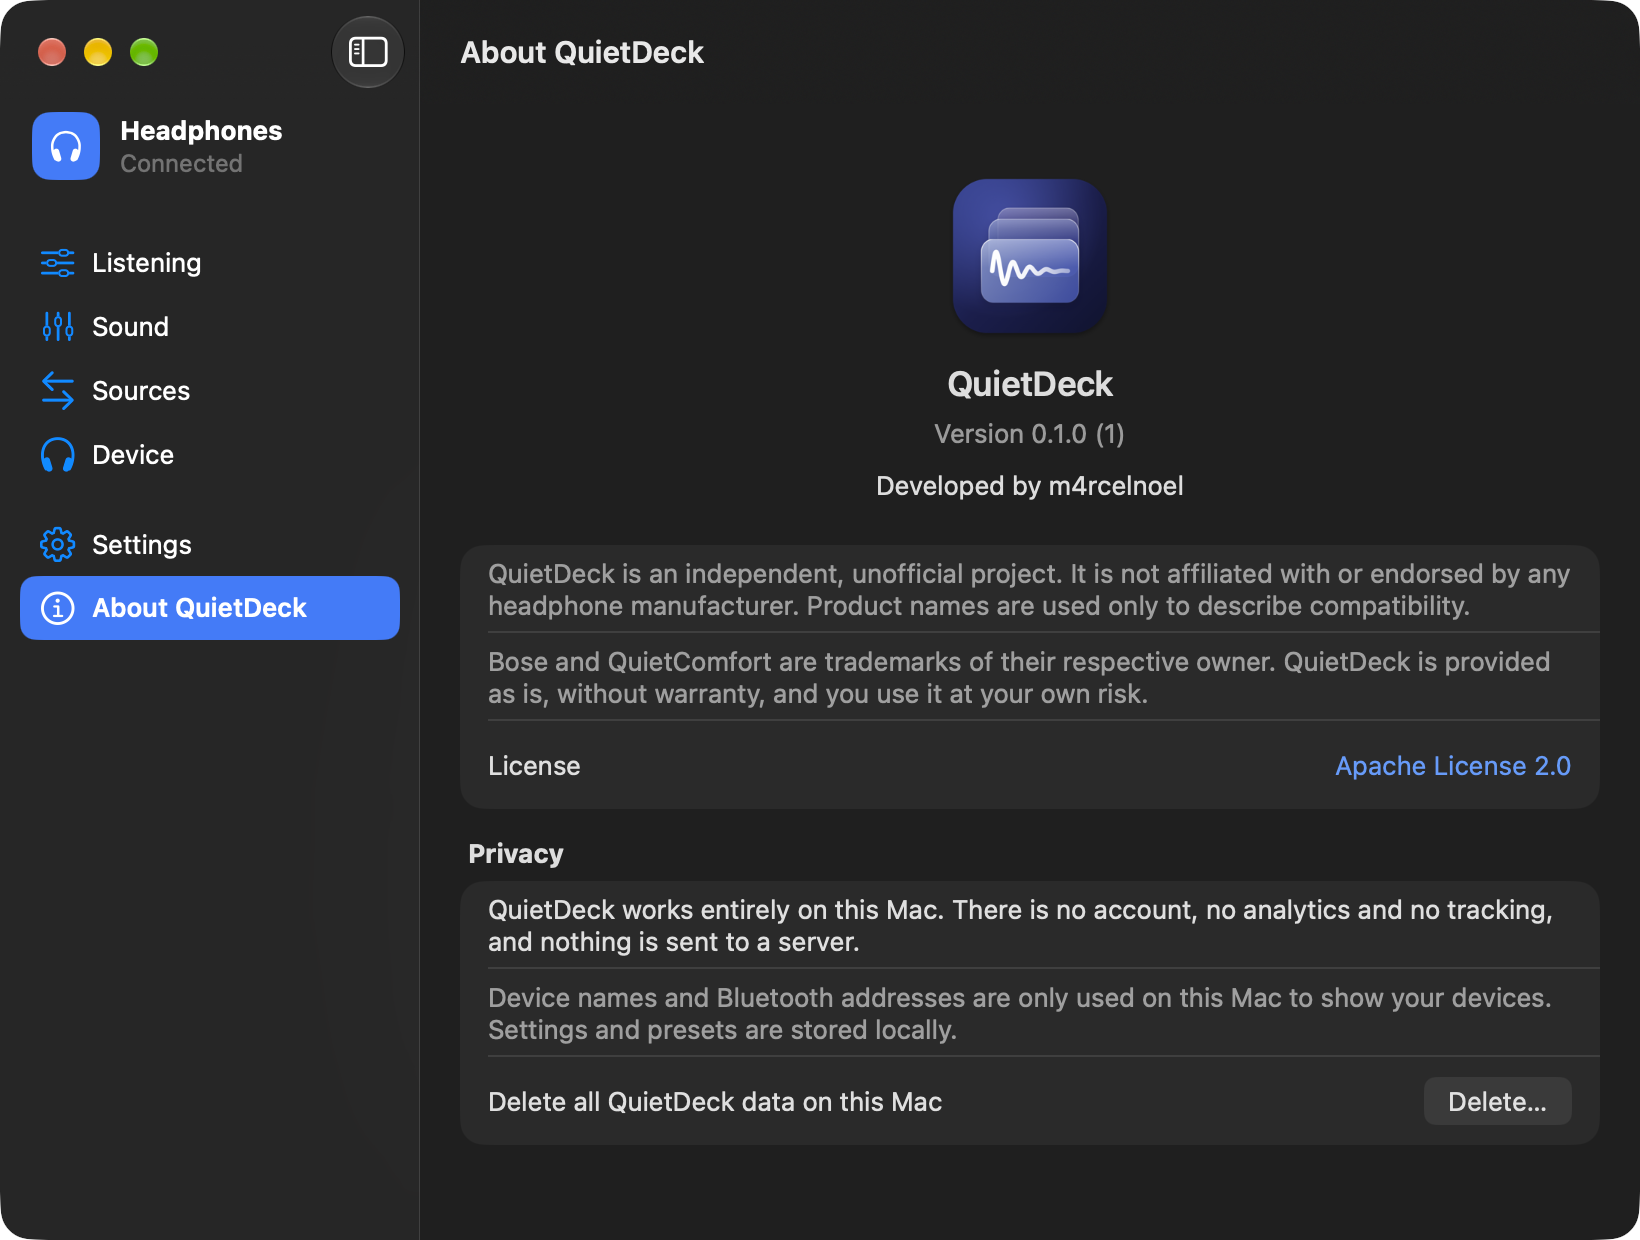
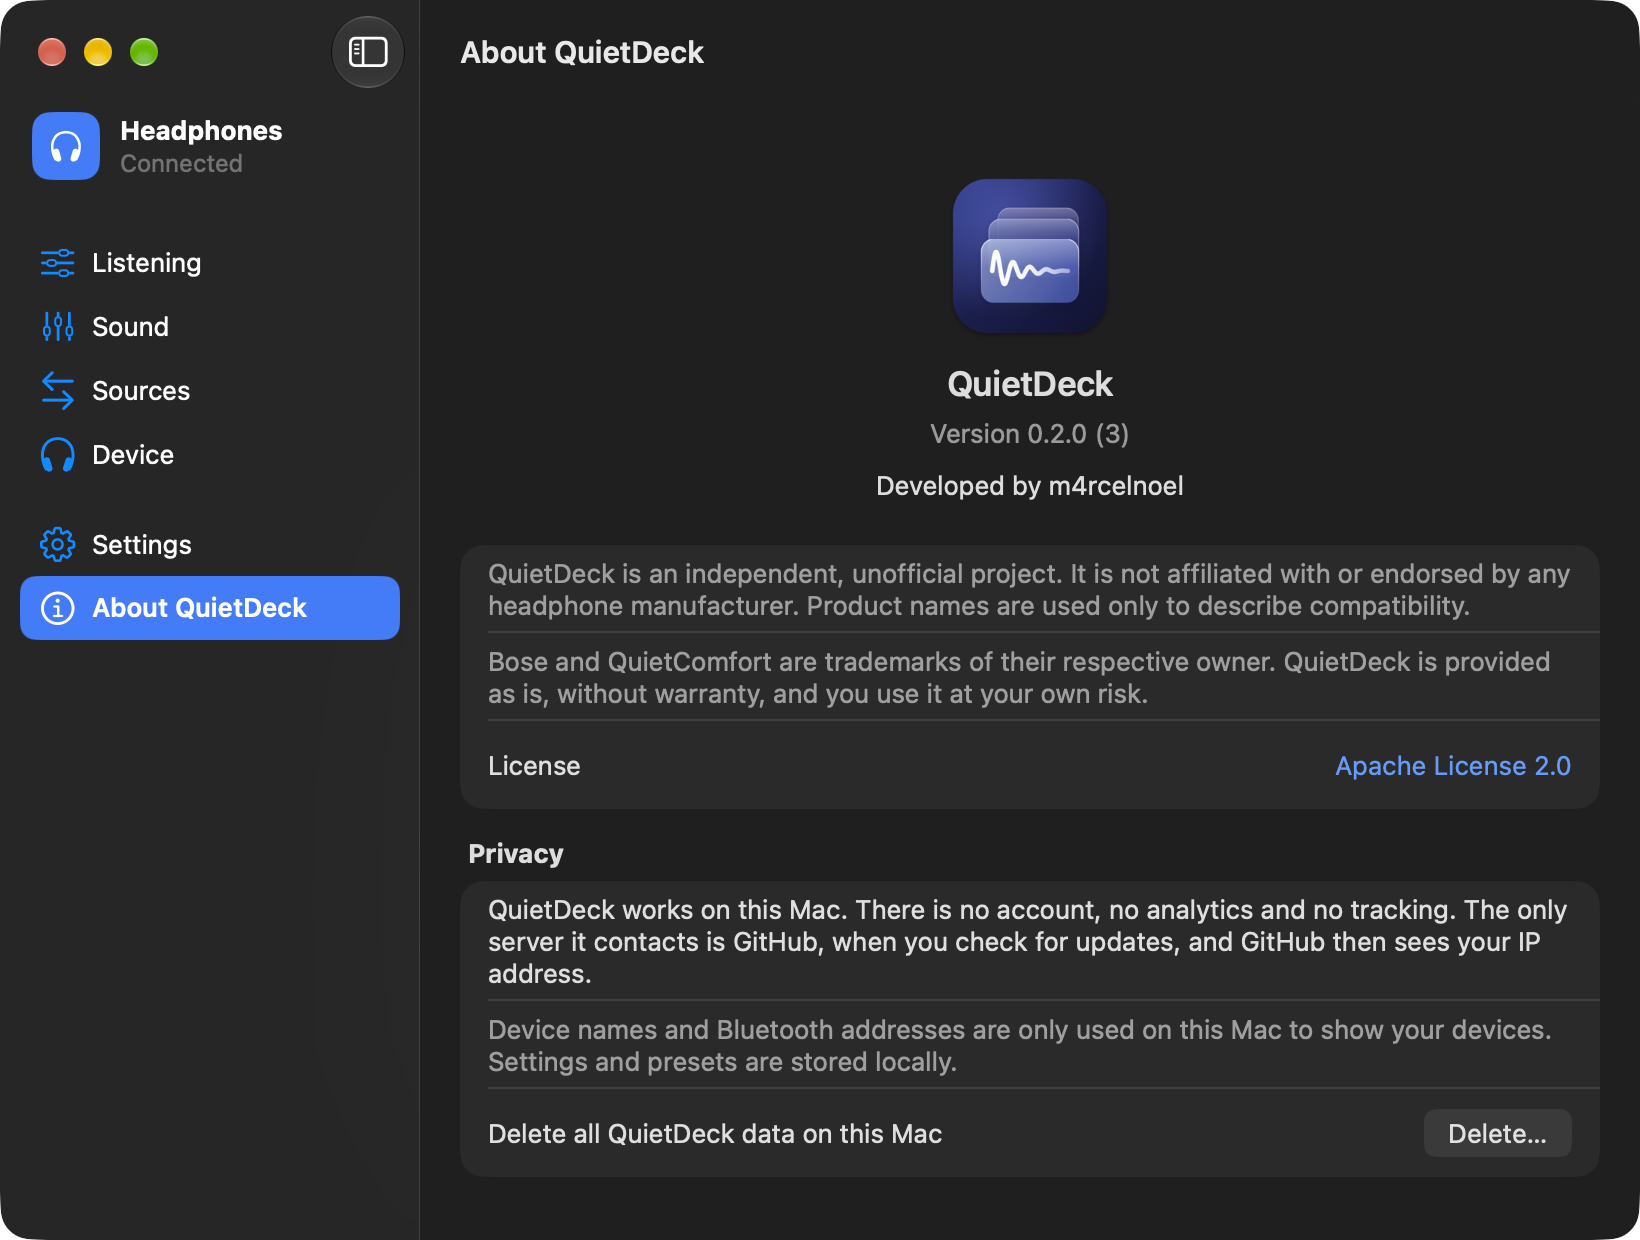
docs: describe updates, the update key and what reaches GitHub

Changed region(s): [[0.2799, 0.7048, 0.964, 0.95], [0.5598, 0.3371, 0.6841, 0.3677]]

diff --git a/docs/release.md b/docs/release.md
@@ -22,9 +22,9 @@ One Developer ID certificate covers all apps of a team, so an existing one can b
    TEAM_ID=YOUR_TEAM_ID scripts/release.sh
    ```
 
-The result is a signed, notarized DMG in `build/release`.
+The result is a signed, notarized DMG in `build/release`. To add the update feed, run `SPARKLE_ED_PRIVATE_KEY=... scripts/make-appcast.sh`.
 
-Or release from GitHub: merge to `main`, then push a tag such as `v0.2.0`. The Release workflow tests, signs, notarizes and publishes the DMG. It needs the secrets listed in [CONTRIBUTING.md](../CONTRIBUTING.md).
+Or release from GitHub: merge to `main`, then push a tag such as `v0.2.0`. The Release workflow tests, signs, notarizes and publishes the DMG with its update feed. It needs the secrets listed in [CONTRIBUTING.md](../CONTRIBUTING.md).
 
 To check the steps without a certificate, run `SKIP_SIGNING=1 scripts/release.sh`.
 
@@ -33,7 +33,38 @@ To check the steps without a certificate, run `SKIP_SIGNING=1 scripts/release.sh
 - Install from the DMG on a Mac that has never run QuietDeck.
 - Confirm Gatekeeper opens it without a warning.
 - Confirm the Bluetooth and notification prompts appear once and not again after a restart.
+- Update from the previous version with Check for Updates, and confirm the app restarts and keeps its Bluetooth permission.
 
 ## Updates
 
-Automatic updates aren't included yet. They need a hosted update feed, and checking for updates sends the user's IP address to that server, so they must be off until the user turns them on. See [privacy.md](privacy.md).
+QuietDeck updates itself with [Sparkle](https://sparkle-project.org). Each release carries an `appcast.xml` next to the DMG, and the app reads the one from the latest release. Sparkle only installs a DMG whose signature matches the public key in the app.
+
+Automatic checks stay off until the user turns them on, see [privacy.md](privacy.md).
+
+`CURRENT_PROJECT_VERSION` must grow with every release, because Sparkle compares it to decide what is newer. A tag must match the app version, such as `v0.2.0` for 0.2.0.
+
+### Update key
+
+Create the key once, after a build has downloaded Sparkle. It lands in your login keychain, and the tool prints the public key:
+
+```sh
+build/DerivedData/SourcePackages/artifacts/sparkle/Sparkle/bin/generate_keys
+```
+
+Put the public key into `SPARKLE_PUBLIC_KEY` in the Xcode project. Then store the private key as a repository secret, and delete the export:
+
+```sh
+build/DerivedData/SourcePackages/artifacts/sparkle/Sparkle/bin/generate_keys -x sparkle-private-key
+gh secret set SPARKLE_ED_PRIVATE_KEY < sparkle-private-key
+rm sparkle-private-key
+```
+
+Back up the keychain item. **If the private key is lost, installed copies can't update any more,** and users have to download the next version by hand.
+
+### Dry run
+
+The Release workflow can also be started by hand from `main`. It does everything except publish:
+
+```sh
+gh workflow run Release --ref main
+```

diff --git a/docs/privacy.md b/docs/privacy.md
@@ -8,6 +8,14 @@ This describes what the app does with data. It's a technical description, not le
 - No analytics, tracking, advertising or crash reporting.
 - No connection to any server operated by the developer or a headphone manufacturer.
 
+## Updates
+
+GitHub is the only server QuietDeck contacts, and only for updates. Automatic checks are off until you turn them on in Settings > Updates.
+
+- **When:** when you choose Check for Updates, or about once a day if you turned automatic checks on.
+- **What is sent:** an ordinary web request for the update feed, and for the new version if you install it. GitHub sees your IP address and the app's name and version. QuietDeck sends no system profile.
+- **Who receives it:** GitHub, Inc., under its own privacy statement. The developer doesn't receive this data.
+
 ## What stays on this Mac
 
 | Data | Purpose | Where | How long |
@@ -29,4 +37,3 @@ Settings > About QuietDeck > Delete removes everything the app has stored on thi
 ## Rules for future features
 
 - **Handoff between Macs:** data stays on the local network, between Macs the user linked. It must be documented here before release.
-- **Updates:** checking for updates sends the requesting IP address to the update server. This must be off until the user turns it on, and must be documented here before release.

diff --git a/CONTRIBUTING.md b/CONTRIBUTING.md
@@ -38,7 +38,7 @@ Use English and [Conventional Commits](https://www.conventionalcommits.org): `fe
 | Workflow | Runs on | Does |
 |---|---|---|
 | CI | Pushes to `staging`, pull requests to `main` | Lint, tests and a Debug build |
-| Release | Tags like `v0.2.0` on `main` | Tests, signs, notarizes and publishes a DMG |
+| Release | Tags like `v0.2.0` on `main` | Tests, signs, notarizes and publishes a DMG and its update feed. Started by hand, it skips publishing |
 
 macOS runners use GitHub's included minutes at a higher rate than Linux runners.
 
@@ -51,6 +51,7 @@ The Release workflow needs these repository secrets:
 | `NOTARY_APPLE_ID` | The Apple ID for notarization |
 | `NOTARY_PASSWORD` | An app-specific password |
 | `TEAM_ID` | The Apple Developer team ID |
+| `SPARKLE_ED_PRIVATE_KEY` | The update signing key, see [docs/release.md](docs/release.md) |
 
 ## Testing on hardware
 

diff --git a/README.md b/README.md
@@ -19,6 +19,7 @@ The first supported device is the Bose QuietComfort Ultra Headphones (2nd Gen). 
 - **Two computers on one headset:** connect remembered devices, including a Windows PC, and bring audio to your Mac with one click
 - **At a glance:** battery level, active audio source and connection status
 - **Notifications:** low battery and lost connection
+- **Updates:** installs new versions from within the app, with automatic checks off until you turn them on
 - **Native:** Liquid Glass on macOS 26, light and dark mode, English and German, VoiceOver labels
 
 ## Screenshots

diff --git a/docs/user-guide.md b/docs/user-guide.md
@@ -51,6 +51,10 @@ Your headphones don't report button presses. QuietDeck reads them again every 30
 
 Set global shortcuts in Settings for each mode, for the next mode and for bringing audio here. A shortcut needs Command, Control or Option.
 
+## Updates
+
+Choose QuietDeck > Check for Updates, or open Settings > Updates. The app downloads and installs a new version and restarts. It checks on its own only if you turn on automatic checks. Version 0.1 can't update itself, so install 0.2 from the disk image once.
+
 ## If something doesn't work
 
 | Problem | Try this |
